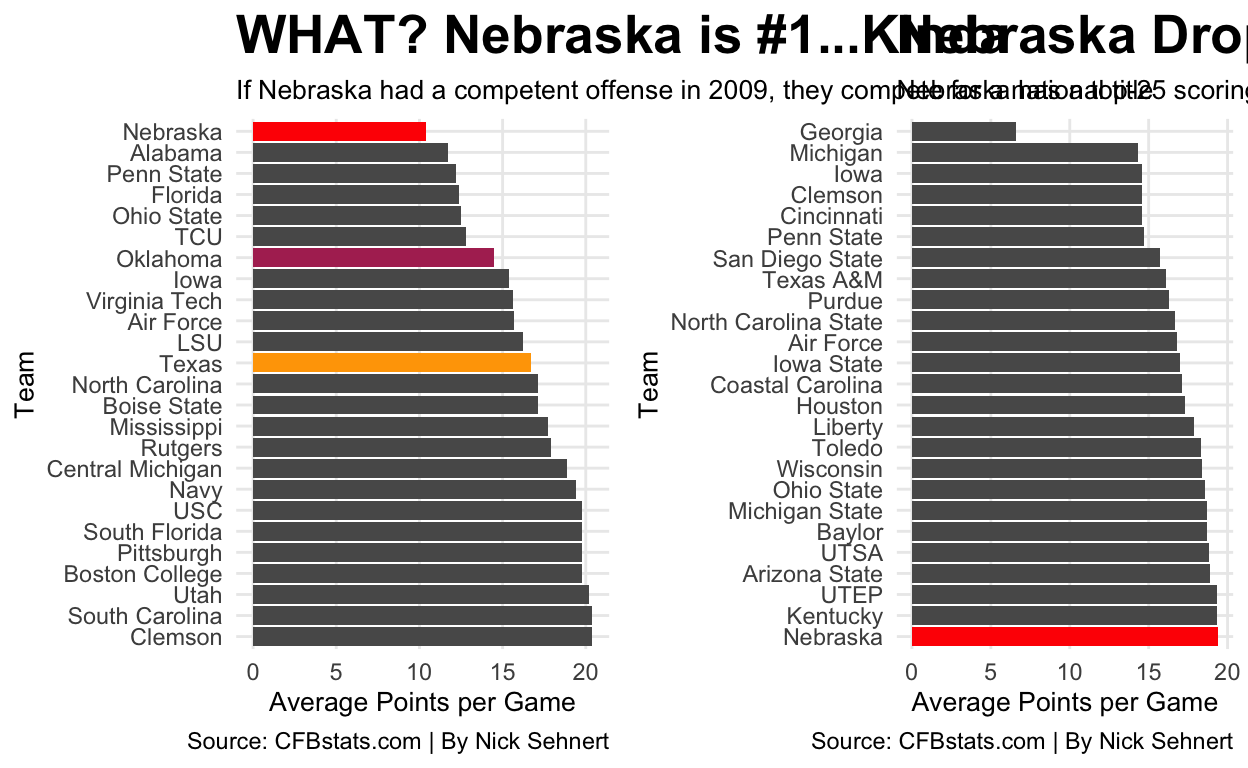
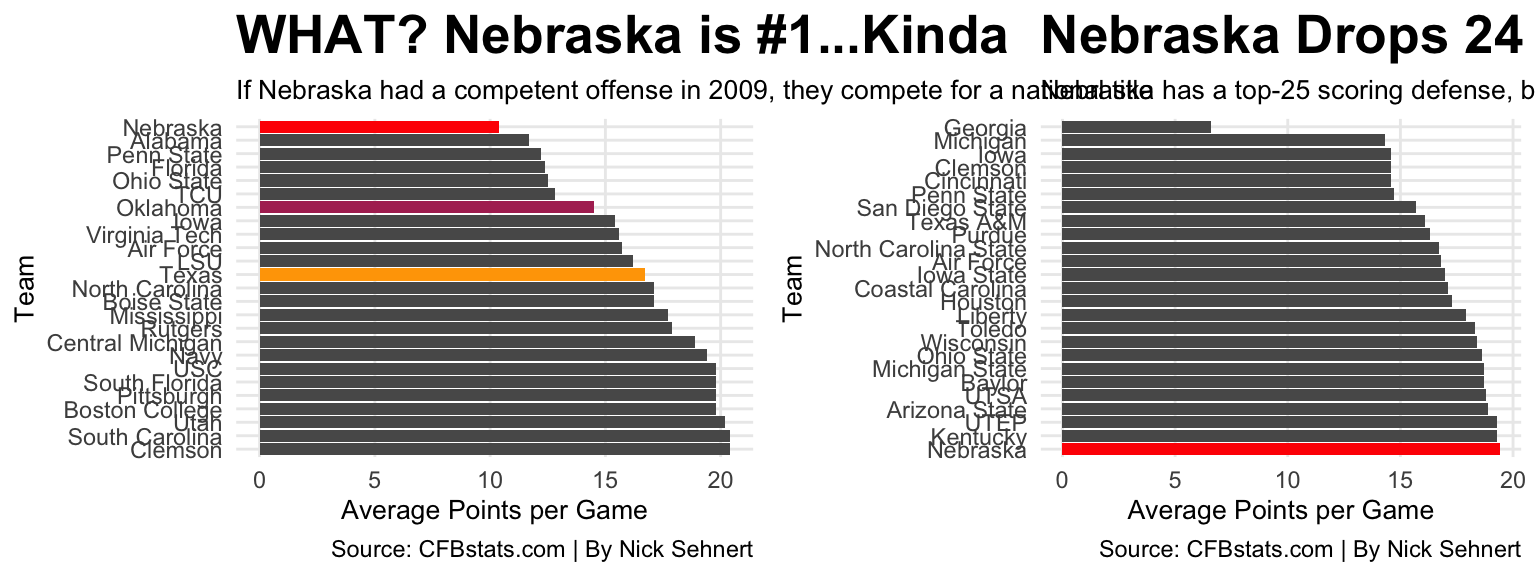
Fixing chart widths

diff --git a/2021/10/25/nebraska-s-defense-in-2009-vs-the-2021-blackshirts/index.html b/2021/10/25/nebraska-s-defense-in-2009-vs-the-2021-blackshirts/index.html
@@ -118,7 +118,7 @@ Top25ScoringDefense2021 &lt;- ScoringDefense2021 %&gt;% top_n(25, wt=-`Points/G`
     axis.title = element_text(size = 10),
     plot.subtitle = element_text(size=10),
     panel.grid.minor = element_blank())</code></pre>
-<p><img src="http://nicksehnert.github.io/2021/10/25/nebraska-s-defense-in-2009-vs-the-2021-blackshirts/index_files/figure-html/unnamed-chunk-4-1.png" width="480" />
+<p><img src="http://nicksehnert.github.io/2021/10/25/nebraska-s-defense-in-2009-vs-the-2021-blackshirts/index_files/figure-html/unnamed-chunk-4-1.png" width="672" />
 Let’s put the chart we made above into a dataframe called “bar1”</p>
 <pre class="r"><code>bar1 &lt;- ggplot() + 
   geom_bar(data=Top25ScoringDefense2009, aes(x=reorder(Name, -`Points/G`), weight=`Points/G`)) + 
@@ -151,7 +151,7 @@ Let’s put the chart we made above into a dataframe called “bar1”</p>
     axis.title = element_text(size = 10),
     plot.subtitle = element_text(size=10),
     panel.grid.minor = element_blank())</code></pre>
-<p><img src="http://nicksehnert.github.io/2021/10/25/nebraska-s-defense-in-2009-vs-the-2021-blackshirts/index_files/figure-html/unnamed-chunk-6-1.png" width="480" />
+<p><img src="http://nicksehnert.github.io/2021/10/25/nebraska-s-defense-in-2009-vs-the-2021-blackshirts/index_files/figure-html/unnamed-chunk-6-1.png" width="672" />
 Let’s do the same thing with the 2021 Scoring Defense data but name it “bar2”</p>
 <pre class="r"><code>bar2 &lt;- ggplot() + 
   geom_bar(data=Top25ScoringDefense2021, aes(x=reorder(Name, -`Points/G`), weight=`Points/G`)) + 
@@ -169,7 +169,7 @@ Let’s do the same thing with the 2021 Scoring Defense data but name it “bar2
     panel.grid.minor = element_blank())</code></pre>
 <p>Finally, let’s make a cowplot. To do that, we must use the plot_grid function and include both “bar1” and “bar2”.</p>
 <pre class="r"><code>plot_grid(bar1, bar2)</code></pre>
-<p><img src="http://nicksehnert.github.io/2021/10/25/nebraska-s-defense-in-2009-vs-the-2021-blackshirts/index_files/figure-html/unnamed-chunk-8-1.png" width="624" />
+<p><img src="http://nicksehnert.github.io/2021/10/25/nebraska-s-defense-in-2009-vs-the-2021-blackshirts/index_files/figure-html/unnamed-chunk-8-1.png" width="768" />
 You can see that in 2009, Nebraska came in at #1, Oklahoma ranks at #7, and Texas finished the season at #12. In 2021, the Big 12 Conference statistically does not play “defense-first” football but the BIG does - so Nebraska comes in at #25 in 2021.</p>
 <p>Let’s look at Passing Defense for those same years, comparing the same teams. Is there a direct correlation between Passing Defense to Scoring Defense? We must filter each team we are comparing as well as make a list of the top-25 programs in terms of Passing Defense in 2009.</p>
 <pre class="r"><code>NebraskaPassingDefense2009 &lt;- PassingDefense2009 %&gt;% filter(Name == &#39;Nebraska&#39;) 
@@ -210,7 +210,7 @@ Top25PassingDefense2021 &lt;- PassingDefense2021 %&gt;% top_n(25, wt=-`Yards/G`)
     axis.title = element_text(size = 10),
     plot.subtitle = element_text(size=10),
     panel.grid.minor = element_blank())</code></pre>
-<p><img src="http://nicksehnert.github.io/2021/10/25/nebraska-s-defense-in-2009-vs-the-2021-blackshirts/index_files/figure-html/unnamed-chunk-10-1.png" width="384" />
+<p><img src="http://nicksehnert.github.io/2021/10/25/nebraska-s-defense-in-2009-vs-the-2021-blackshirts/index_files/figure-html/unnamed-chunk-10-1.png" width="672" />
 By reading the lollipop chart, you can see that Nebraska, Oklahoma, and Texas were extremely similar in the amount of passing yards they allowed each game in 2009. But now let’s find out if any three of those teams rank in the top-25 this season!</p>
 <pre class="r"><code>ggplot() + 
   geom_lollipop(
@@ -225,7 +225,7 @@ By reading the lollipop chart, you can see that Nebraska, Oklahoma, and Texas we
     axis.title = element_text(size = 10),
     plot.subtitle = element_text(size=10),
     panel.grid.minor = element_blank())</code></pre>
-<p><img src="http://nicksehnert.github.io/2021/10/25/nebraska-s-defense-in-2009-vs-the-2021-blackshirts/index_files/figure-html/unnamed-chunk-11-1.png" width="384" />
+<p><img src="http://nicksehnert.github.io/2021/10/25/nebraska-s-defense-in-2009-vs-the-2021-blackshirts/index_files/figure-html/unnamed-chunk-11-1.png" width="672" />
 There is no color on that chart. None. Nebraska, Texas &amp; Oklahoma are all bad at pass defense in 2021. Oklahoma and Texas have an excuse because they are in the Big 12 so they give up a boatload of passing yards. But Nebraska is in the BIG – and they returned their entire secondary from last season, so they don’t have any good reason as to why they are not in the top-25 in terms of pass defense.</p>
 <p>So now we can make another cowplot putting these two lollipop charts side-by-side. We will do the same thing as we did for the bar graphs, but instead of labeling them “bar1” &amp; “bar2,” let’s name them “lollipop1” &amp; “lollipop2.”</p>
 <pre class="r"><code>lollipop1 &lt;-
@@ -273,7 +273,7 @@ There is no color on that chart. None. Nebraska, Texas &amp; Oklahoma are all ba
     panel.grid.minor = element_blank())</code></pre>
 <p>Now that we have our dataframes created, we can use plot_grid once again and put the two lollipop charts next to each other.</p>
 <pre class="r"><code>plot_grid(lollipop1, lollipop2)</code></pre>
-<p><img src="http://nicksehnert.github.io/2021/10/25/nebraska-s-defense-in-2009-vs-the-2021-blackshirts/index_files/figure-html/unnamed-chunk-14-1.png" width="556.8" />
+<p><img src="http://nicksehnert.github.io/2021/10/25/nebraska-s-defense-in-2009-vs-the-2021-blackshirts/index_files/figure-html/unnamed-chunk-14-1.png" width="672" />
 Finally, let’s make our final chart. First, we will take a look at the rushing defense statistics for 2009 but this time, instead of comparing it to just the top-25 schools, let’s compare to all 120.</p>
 <pre class="r"><code>NebraskaRushingDefense2009 &lt;- RushingDefense2009 %&gt;% filter(Name == &#39;Nebraska&#39;) 
 TexasRushingDefense2009 &lt;- RushingDefense2009 %&gt;% filter(Name == &#39;Texas&#39;)
@@ -349,7 +349,7 @@ This season, Nebraska and Oklahoma are in a good spot - allowing less that 150 y
     panel.grid.minor = element_blank())</code></pre>
 <p>Now we can use plot_grid once again to put them side-by-side.</p>
 <pre class="r"><code>plot_grid(scatterplot1, scatterplot2)</code></pre>
-<p><img src="http://nicksehnert.github.io/2021/10/25/nebraska-s-defense-in-2009-vs-the-2021-blackshirts/index_files/figure-html/unnamed-chunk-21-1.png" width="576" />
+<p><img src="http://nicksehnert.github.io/2021/10/25/nebraska-s-defense-in-2009-vs-the-2021-blackshirts/index_files/figure-html/unnamed-chunk-21-1.png" width="480" />
 Surprisingly, Oklahoma has performed really well against the run this season. Part of that may be because the Big 12 doesn’t run the pigskin a ton but it also helps that Perrion Winfrey is a member of their front 4. Nebraska is allowing less than 140 yards per game and against the Purdue Boilermakers on Saturday, they were right on pace allowing 116 rushing yards.</p>
 
     </div>
